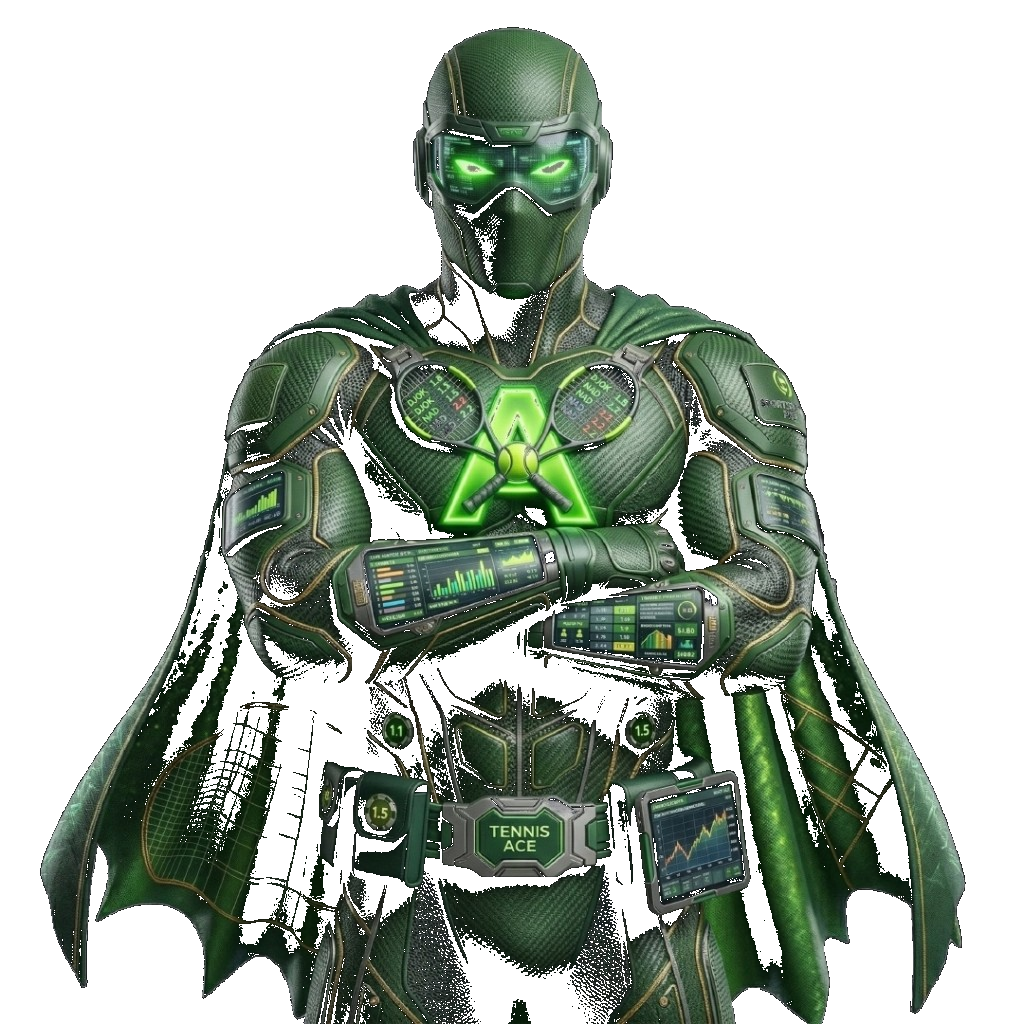
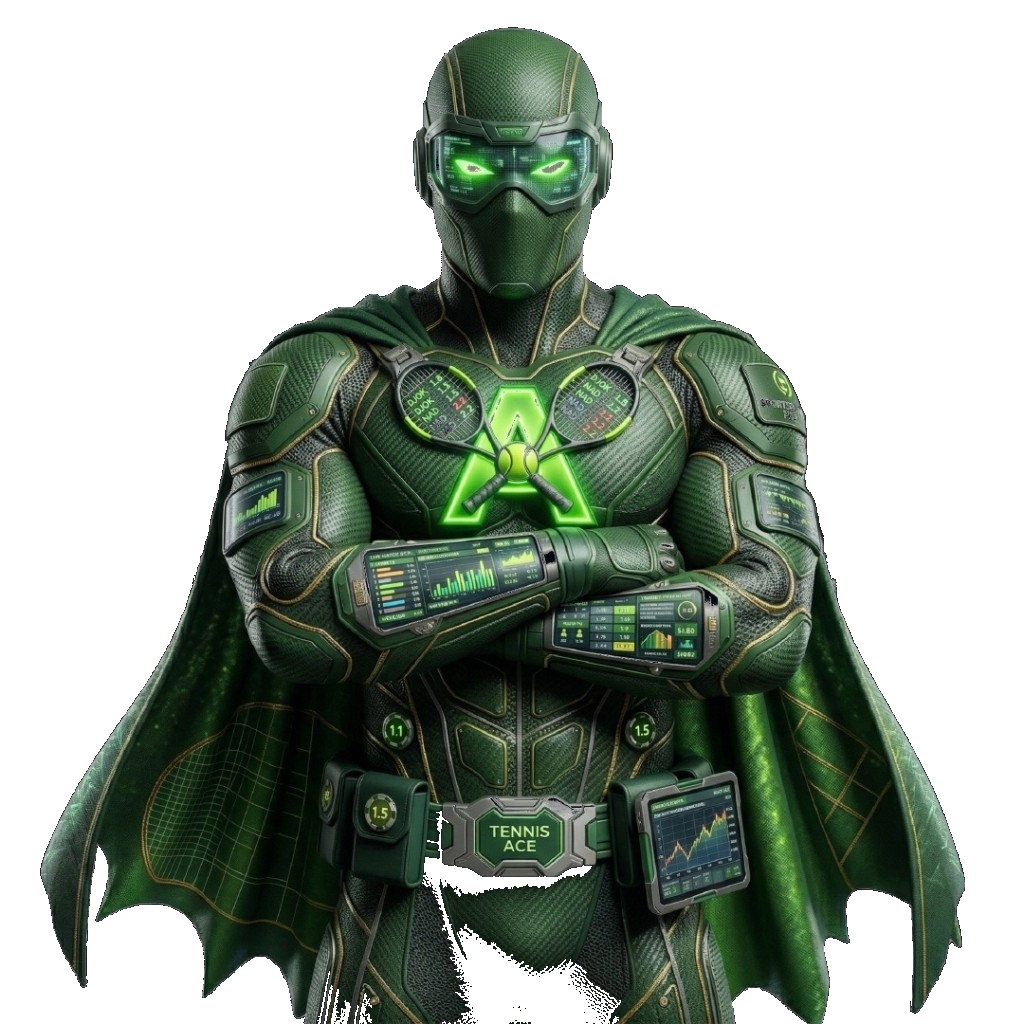
fix: mascottes transparentes intelligentes + donut texte non superpose
1) Mascottes - flood fill depuis les bords (au lieu de simple seuil):
   - Avant: tous les pixels < 30 = transparents (incluant noirs internes des cheveux/ombres)
   - Maintenant: scipy.ndimage.label + connection a un bord requise
   - Resultat: seuls les noirs touchant le contour sont rendus transparents
   - mascotte-tennis-nobg.png et mascotte-fun-crazy-nobg.png regenerees proprement
   - Plus de zones transparentes degueulasses au milieu de la mascotte

2) Donut: texte WIN se superposait au chiffre (68WIN affiche en chevauchement):
   - Probleme: tailles font-size en rem dans SVG viewBox (units differents)
   - Solution: passer en px direct dans le SVG (8px chiffre, 2.5px label %WIN)
   - Position: chiffre y=15, label y=24 (au lieu de y=17/23 trop colles)
   - Resultat: chiffre bien centre + '% WIN' dessous lisible et separe

diff --git a/public_html/historique.php b/public_html/historique.php
@@ -220,8 +220,8 @@ body{background:#05060d;color:#fff;font-family:'Rajdhani',sans-serif;margin:0;mi
 .t-donut-svg{width:120px;height:120px;flex-shrink:0;animation:glow-ring 3s ease infinite;}
 .t-donut-bg{stroke:rgba(255,255,255,.06);}
 .t-donut-fill{stroke:var(--c1);stroke-linecap:round;transform:rotate(-90deg);transform-origin:center;animation:draw-circle 1.6s cubic-bezier(.4,0,.2,1) forwards;stroke-dasharray:100;stroke-dashoffset:100;}
-.t-donut-center{font-family:'Orbitron',sans-serif;font-size:1.4rem;font-weight:900;fill:#fff;text-anchor:middle;dominant-baseline:central;}
-.t-donut-pct{font-family:'Share Tech Mono',monospace;font-size:.55rem;fill:var(--c1);text-anchor:middle;text-transform:uppercase;letter-spacing:2px;}
+.t-donut-center{font-family:'Orbitron',sans-serif;font-size:8px;font-weight:900;fill:#fff;text-anchor:middle;dominant-baseline:central;}
+.t-donut-pct{font-family:'Share Tech Mono',monospace;font-size:2.5px;fill:var(--c1);text-anchor:middle;text-transform:uppercase;letter-spacing:0.5px;}
 .t-donut-info{flex:1;}
 .t-donut-info-row{display:flex;align-items:center;gap:.5rem;margin-bottom:.6rem;font-size:.75rem;color:rgba(255,255,255,.7);font-family:'Share Tech Mono',monospace;text-transform:uppercase;letter-spacing:1px;}
 .t-donut-info-row .dot-w{width:8px;height:8px;border-radius:50%;background:var(--c1);box-shadow:0 0 6px var(--c1);}
@@ -339,8 +339,8 @@ body{background:#05060d;color:#fff;font-family:'Rajdhani',sans-serif;margin:0;mi
         <svg class="t-donut-svg" viewBox="0 0 36 36">
           <circle class="t-donut-bg" cx="18" cy="18" r="15.91" fill="transparent" stroke-width="3"/>
           <circle class="t-donut-fill" cx="18" cy="18" r="15.91" fill="transparent" stroke-width="3" pathLength="100" style="--off:<?= $donutOff ?>"/>
-          <text class="t-donut-center" x="18" y="17"><?= $winRate ?></text>
-          <text class="t-donut-pct" x="18" y="23">% WIN</text>
+          <text class="t-donut-center" x="18" y="15"><?= $winRate ?></text>
+          <text class="t-donut-pct" x="18" y="24">% WIN</text>
         </svg>
         <div class="t-donut-info">
           <div class="t-donut-info-row"><span class="dot-w"></span>Gagnés<span class="num"><?= $s['gagnes'] ?></span></div>

diff --git a/public_html/_historique-tipster.php b/public_html/_historique-tipster.php
@@ -162,8 +162,8 @@ body{background:#05060d;color:#fff;font-family:'Rajdhani',sans-serif;margin:0;mi
 .dd-svg{width:140px;height:140px;flex-shrink:0;}
 .dd-bg{stroke:rgba(255,255,255,.06);}
 .dd-fill{stroke:<?= $tConf['c1'] ?>;stroke-linecap:round;transform:rotate(-90deg);transform-origin:center;animation:draw-circle 1.6s cubic-bezier(.4,0,.2,1) forwards;stroke-dasharray:100;stroke-dashoffset:100;filter:drop-shadow(0 0 8px <?= $tConf['c1'] ?>);}
-.dd-center{font-family:'Orbitron',sans-serif;font-size:1.6rem;font-weight:900;fill:#fff;text-anchor:middle;dominant-baseline:central;}
-.dd-pct{font-family:'Share Tech Mono',monospace;font-size:.55rem;fill:<?= $tConf['c1'] ?>;text-anchor:middle;text-transform:uppercase;letter-spacing:2px;}
+.dd-center{font-family:'Orbitron',sans-serif;font-size:8px;font-weight:900;fill:#fff;text-anchor:middle;dominant-baseline:central;}
+.dd-pct{font-family:'Share Tech Mono',monospace;font-size:2.5px;fill:<?= $tConf['c1'] ?>;text-anchor:middle;text-transform:uppercase;letter-spacing:0.5px;}
 .dd-info{flex:1;}
 .dd-info-row{display:flex;justify-content:space-between;padding:.5rem 0;border-bottom:1px solid rgba(255,255,255,.06);font-family:'Share Tech Mono',monospace;font-size:.8rem;color:rgba(255,255,255,.7);}
 .dd-info-row:last-child{border:none;}
@@ -230,8 +230,8 @@ body{background:#05060d;color:#fff;font-family:'Rajdhani',sans-serif;margin:0;mi
         <svg class="dd-svg" viewBox="0 0 36 36">
           <circle class="dd-bg" cx="18" cy="18" r="15.91" fill="transparent" stroke-width="3"/>
           <circle class="dd-fill" cx="18" cy="18" r="15.91" fill="transparent" stroke-width="3" pathLength="100" style="--off:<?= $donutOff ?>"/>
-          <text class="dd-center" x="18" y="17"><?= $stats['taux'] ?></text>
-          <text class="dd-pct" x="18" y="23">% WIN</text>
+          <text class="dd-center" x="18" y="15"><?= $stats['taux'] ?></text>
+          <text class="dd-pct" x="18" y="24">% WIN</text>
         </svg>
         <div class="dd-info">
           <div class="dd-info-row">Gagnés <b><?= $stats['g'] ?></b></div>
